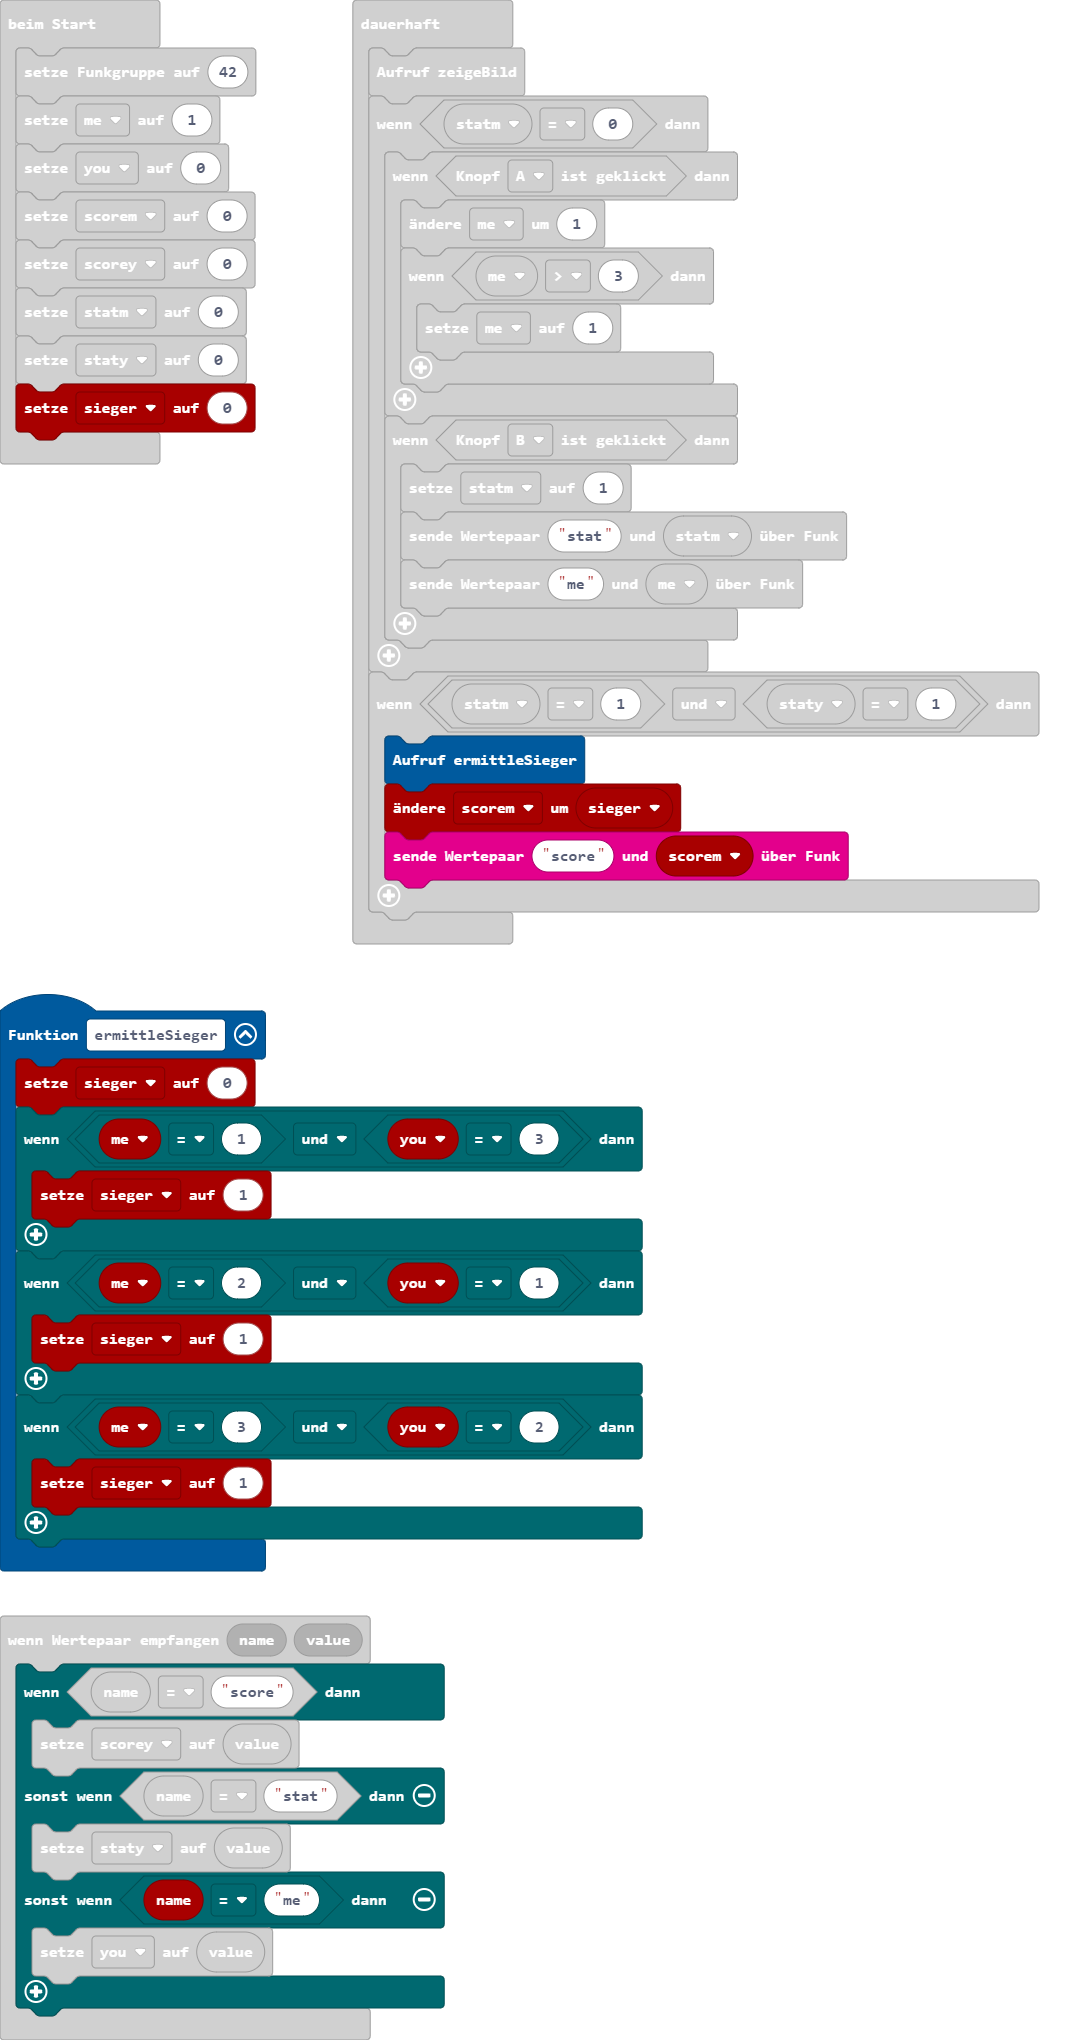
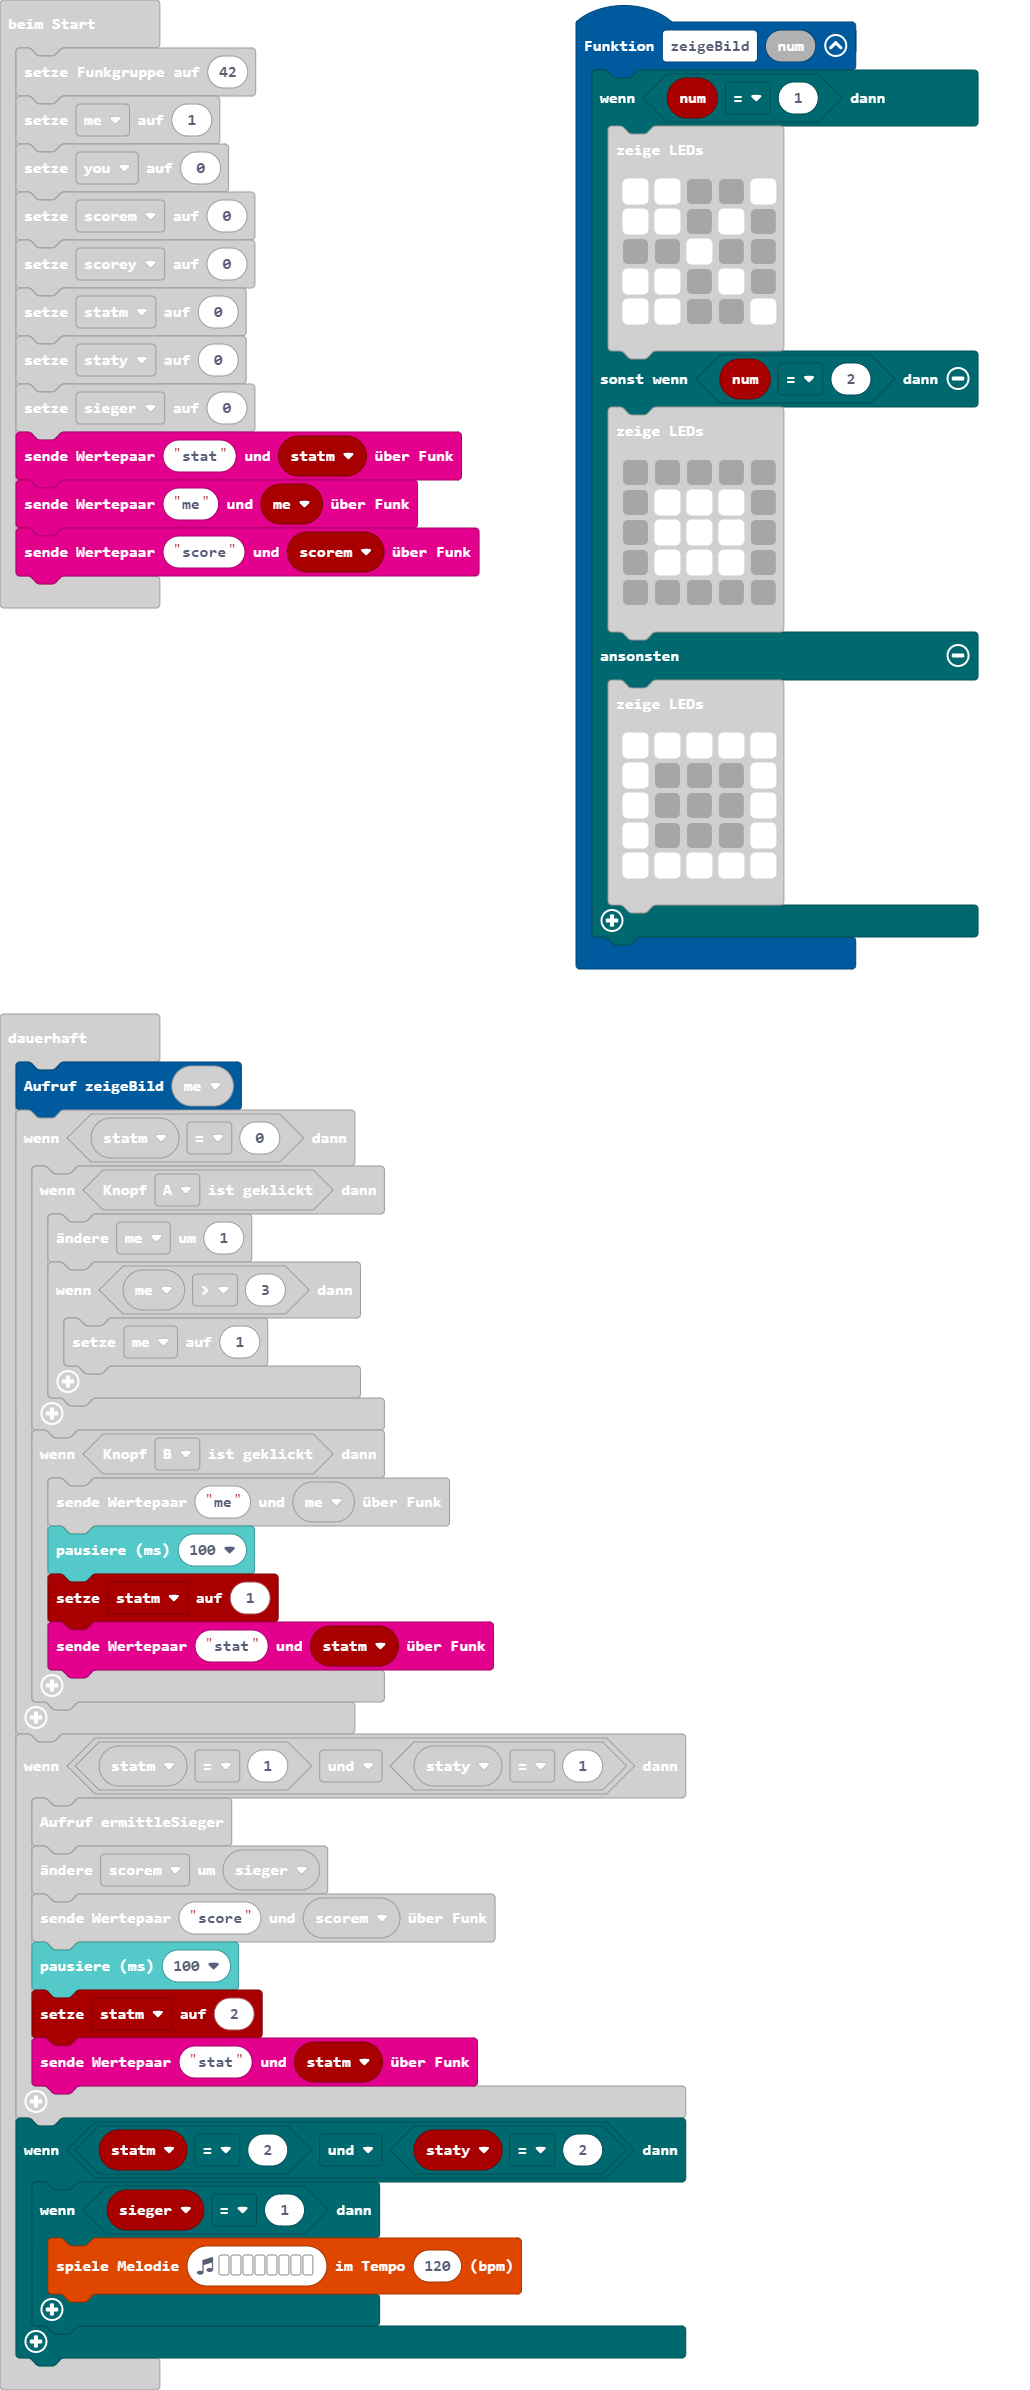
Aktualisiere main.blocks, main.ts

diff --git a/main.ts b/main.ts
@@ -10,8 +10,8 @@ function ermittleSieger () {
         sieger = 1
     }
 }
-function zeigeBild () {
-    if (me == 1) {
+function zeigeBild (num: number) {
+    if (num == 1) {
         basic.showLeds(`
             # # . . #
             # # . # .
@@ -19,7 +19,7 @@ function zeigeBild () {
             # # . # .
             # # . . #
             `)
-    } else if (me == 2) {
+    } else if (num == 2) {
         basic.showLeds(`
             . . . . .
             . # # # .
@@ -59,8 +59,11 @@ scorey = 0
 let statm = 0
 staty = 0
 sieger = 0
+radio.sendValue("stat", statm)
+radio.sendValue("me", me)
+radio.sendValue("score", scorem)
 basic.forever(function () {
-    zeigeBild()
+    zeigeBild(me)
     if (statm == 0) {
         if (input.buttonIsPressed(Button.A)) {
             me += 1
@@ -69,14 +72,23 @@ basic.forever(function () {
             }
         }
         if (input.buttonIsPressed(Button.B)) {
+            radio.sendValue("me", me)
+            basic.pause(100)
             statm = 1
             radio.sendValue("stat", statm)
-            radio.sendValue("me", me)
         }
     }
     if (statm == 1 && staty == 1) {
         ermittleSieger()
         scorem += sieger
         radio.sendValue("score", scorem)
+        basic.pause(100)
+        statm = 2
+        radio.sendValue("stat", statm)
+    }
+    if (statm == 2 && staty == 2) {
+        if (sieger == 1) {
+            music.playMelody("C - E - G - C5 - ", 120)
+        }
     }
 })
